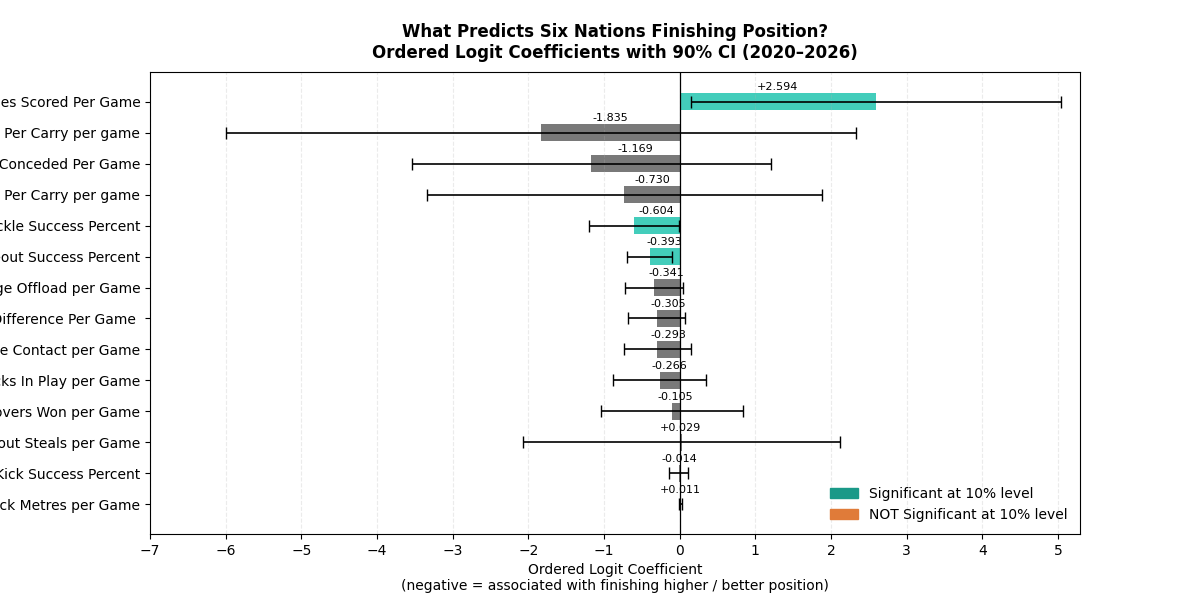
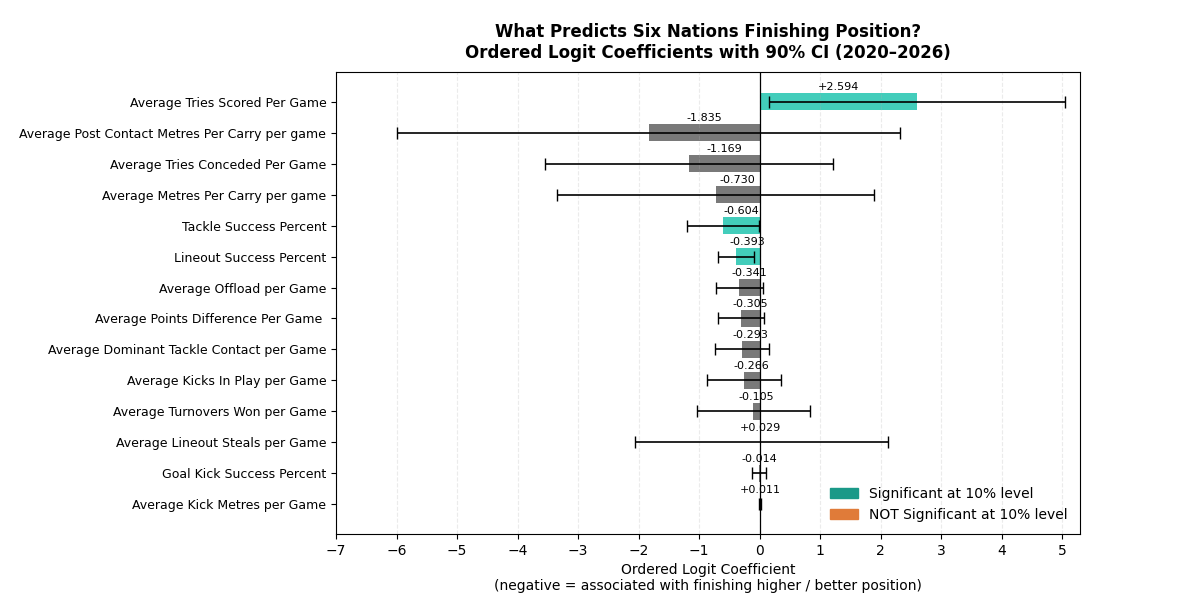
updates table so fits in the image

diff --git a/source/data_analysis_coding.py b/source/data_analysis_coding.py
@@ -559,6 +559,7 @@ def coef_plot(model_ordered):
     x_abs_max = (abs(ci["upper"].max()) * 1.05)
 
     fig, ax = plt.subplots(figsize=figure_size_for_plots())
+    fig.subplots_adjust(left=0.28) 
 
     for i, (name, val) in enumerate(coef.items()):
         ax.barh(i, val, color=colours[i], alpha=0.82, height=0.55)
@@ -583,7 +584,7 @@ def coef_plot(model_ordered):
     ax.set_yticks(range(len(coef)))
 
     
-    ax.set_yticklabels([REG_VAR_LABELS.get(n, n.replace("_", " ").title()) for n in coef.index])
+    ax.set_yticklabels([REG_VAR_LABELS.get(n, n.replace("_", " ").title()) for n in coef.index], fontsize=9)
 
     ax.set_xlabel(
         "Ordered Logit Coefficient\n"